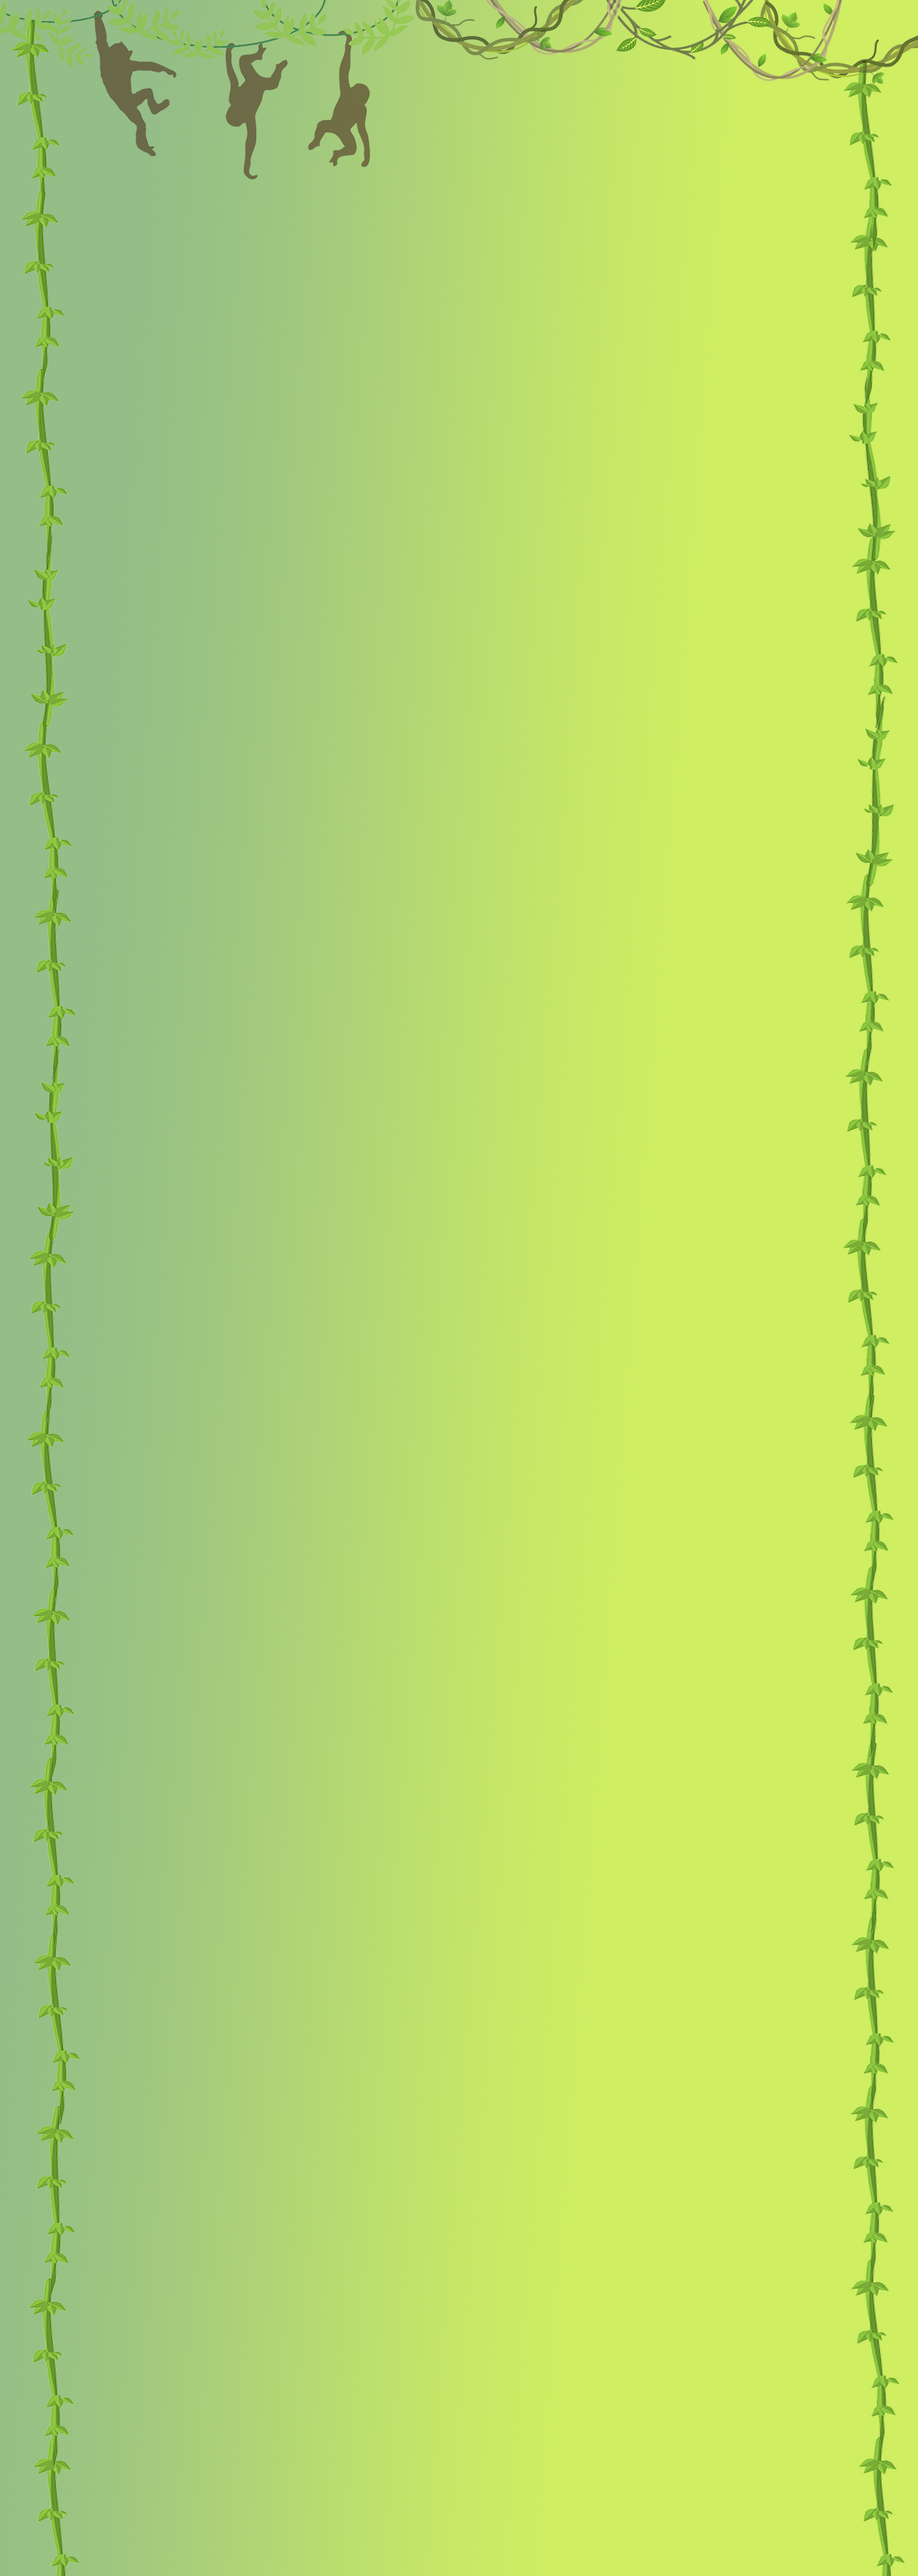
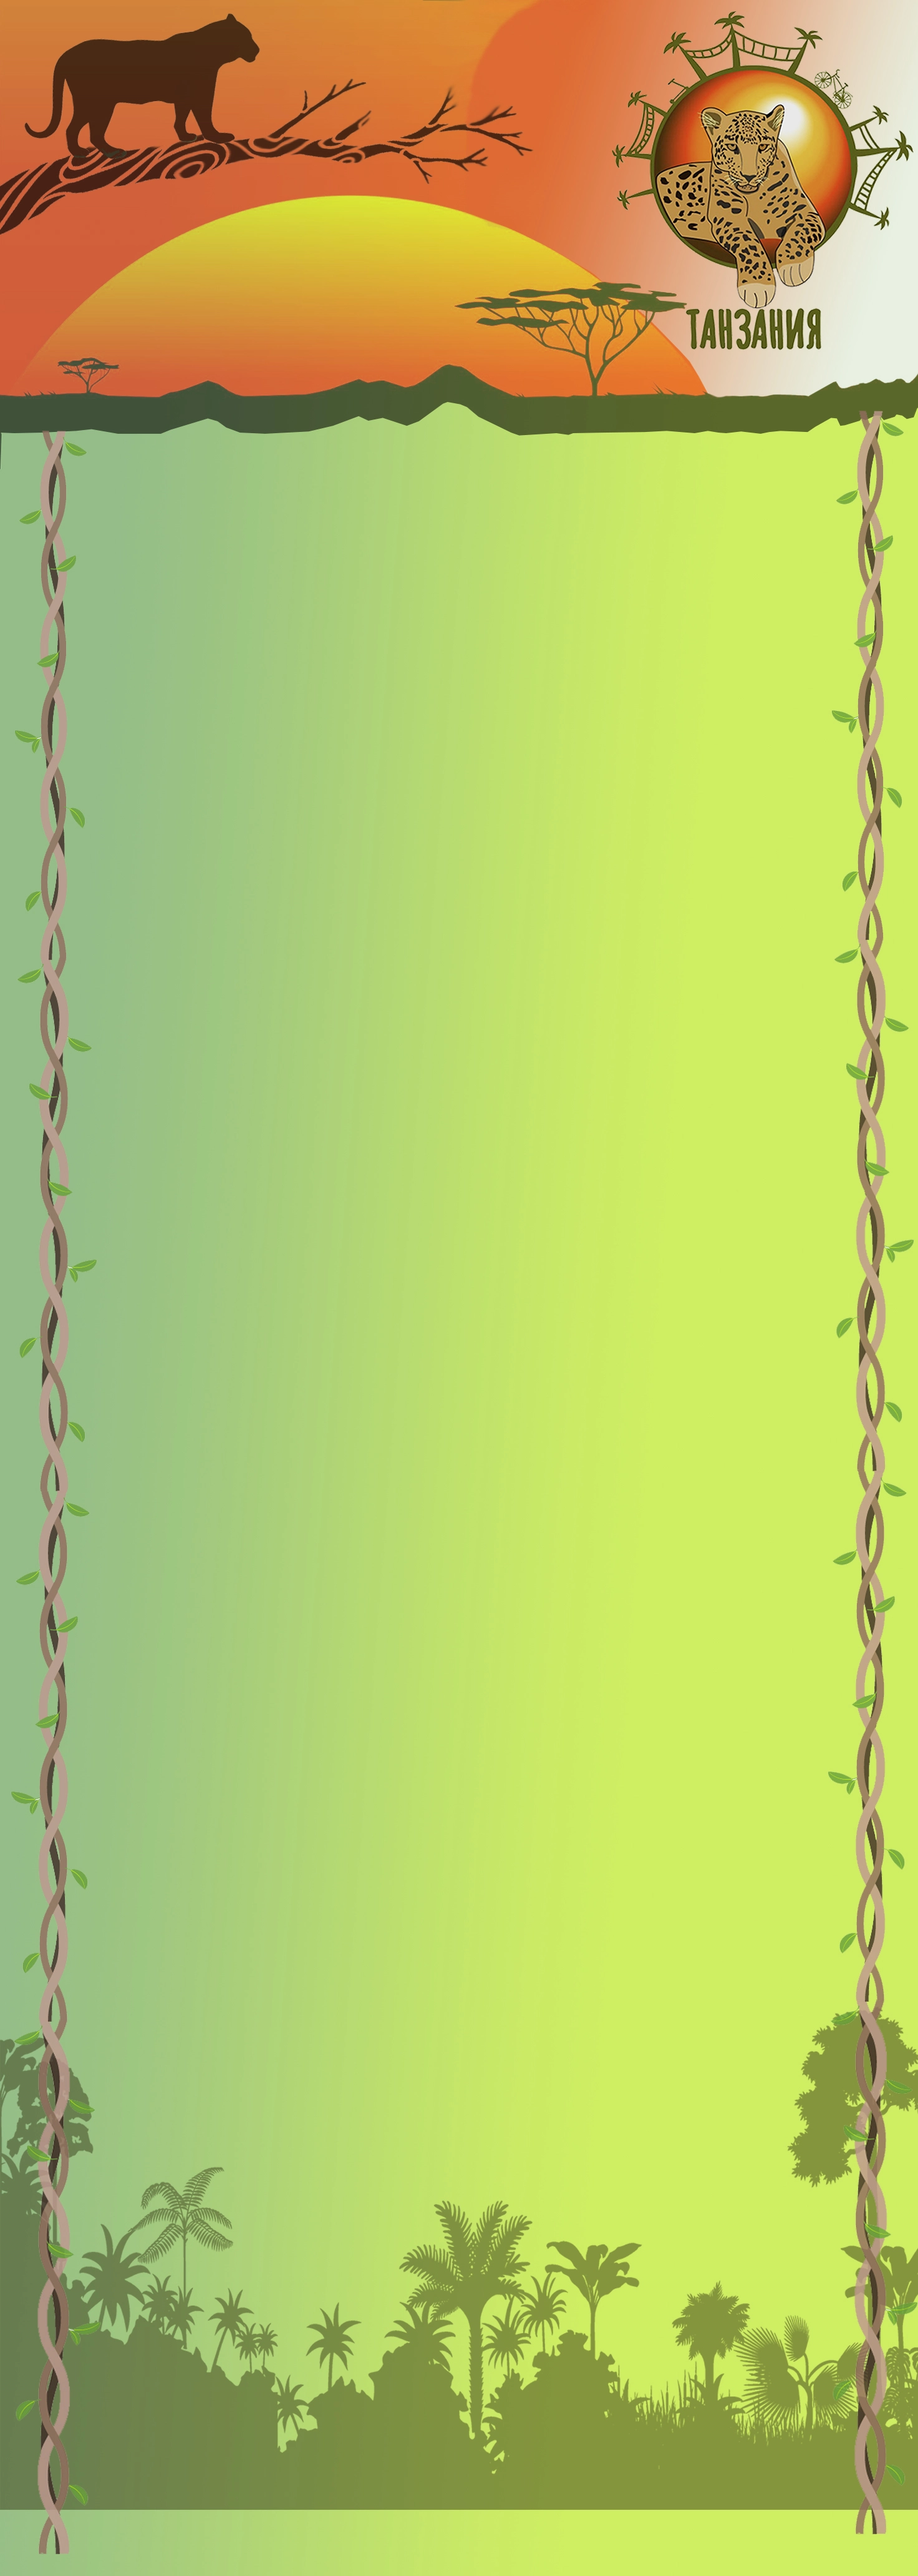
Фон описания и текст отредачили, переход адыкватный сделали, загрузочный экран для мобилы отредачили. Мусорные картинки удалили

Changed region(s): [[0.0, 0.0, 1.0, 1.0]]

diff --git a/public/styles/local.css b/public/styles/local.css
@@ -245,17 +245,11 @@
 }
 
 /* Переход */
-.perehod-sec
-{
-  height: 25vh;
-  background: linear-gradient(90deg, rgba(113,217,90,1) 8%, rgba(220,245,7,1) 48%, rgba(255,179,0,1) 86%);
-}
-
 .perehod
 {
   position: absolute;
-  margin-top: -10vh;
-  height: 40vh;
+  margin-top: -21vh;
+  height: 25vh;
   /* margin-top: -40vh;
   height: 100vh; */
   width: 100%;
@@ -269,17 +263,17 @@
 
 #discription
 {
-  background-image: url(../pics/disc_back3.webp);
+  background-image: url(../pics/disc_back.webp);
   background-repeat: no-repeat;
   background-size: cover;
   width: 100%;
-  height: 515vh;
+  height: 560vh;
   display: flex;
   flex-direction: column;
   align-items: center;
   /* padding-top: 15vh;
   padding-bottom: 15vh; */
-  padding-top: 30vh;
+  padding-top: 85vh;
   padding-bottom: 200vh;
   font-family: 'Roboto Condensed';
   font-weight: bold;
@@ -349,7 +343,8 @@
 
 .important-info
 {
-  color: green;
+  /* color: green; */
+  color: orangered;
   background-color: white;
   background: rgba(54, 234, 9, 0); /*Делает фон текста прозрачным*/
 }

diff --git a/public/index.html b/public/index.html
@@ -72,9 +72,7 @@
             <button class="btn btn-danger" id="req">Рассчитать стоимость</button>
         </div>
 
-        <section class = "perehod-sec">
-            <img class="perehod" src="/public/pics/perehod.webp">
-        </section>
+        <img class="perehod" src="/public/pics/perehod.webp">
 
         <section id="discription">
 

diff --git a/public/styles/media.css b/public/styles/media.css
@@ -3,10 +3,11 @@
 @media (max-width: 576px) 
 {
     /* Загрузочный экран */
-    .Pre-loaded
+    .Pre-loaded.Pre-loaded
     {
         background-image: url(../pics/mobile_preloader_img.webp);
-        height: 100vh;
+        height: 500vh;
+        background-size: cover;
     }
 
     /* Превью */
